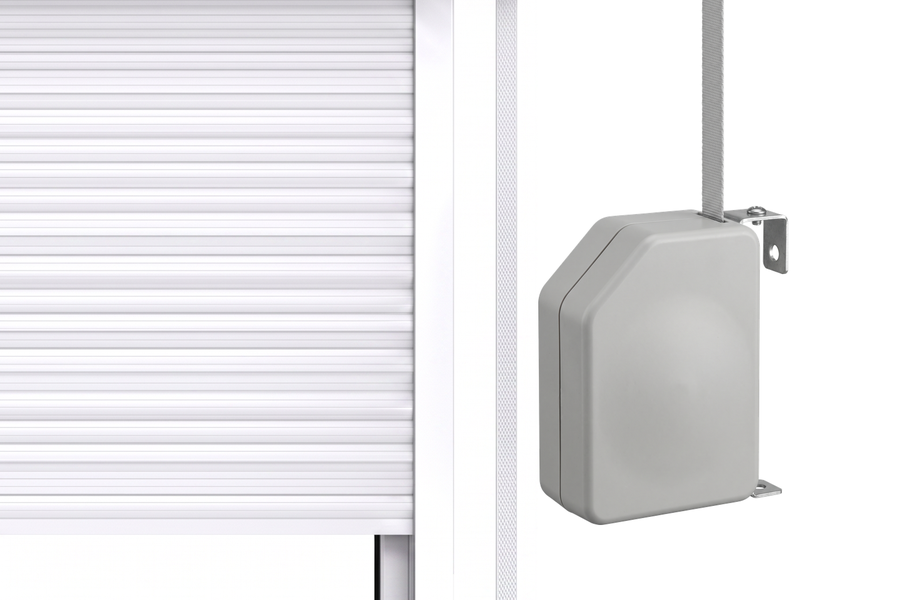
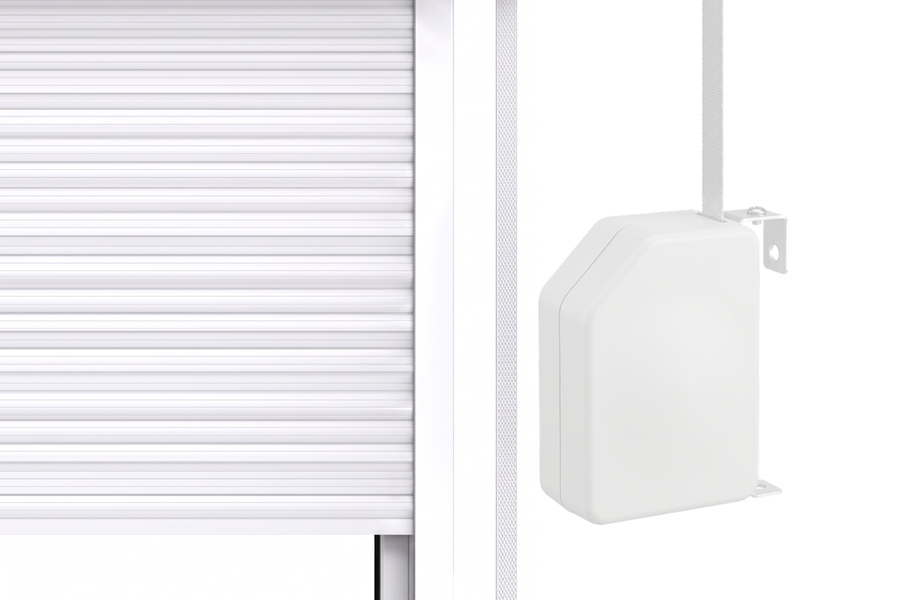
Gurtwickler-Bauteil in Weiss statt Hellgrau
Weiss ist die uebliche Ausfuehrung und passt zum weissen Rollladen daneben. Umgesetzt
per Tonwertkorrektur am freigestellten Bauteil (Richtung Weiss gezogen), NICHT durch
Neugenerierung — die Form bleibt dadurch exakt dieselbe.

Gehaeuse und Gurtband unterschiedlich stark aufgehellt (Median 232 bzw. 211): bei
gleicher Aufhellung verschwindet das Gurtband sonst im weissen Gehaeuse. Plastizitaet
bleibt erhalten, in Kachelgroesse ist das Bauteil weiterhin klar abgesetzt.

Bildversion ?v=8.

Changed region(s): [[0.5911, 0.0, 0.9022, 0.9]]

diff --git a/konfigurator.html b/konfigurator.html
@@ -3488,7 +3488,7 @@ function panelHTML(){
     // Gespiegelt wird nur beim Gurtwickler — dort wandert der Wickler sichtbar auf die andere
     // Seite. Beim Motor gaebe es nichts zu spiegeln ausser dem Fenster selbst; das saehe nach
     // Versehen aus. Die beiden Motor-Kacheln zeigen daher bewusst dasselbe Bild.
-    const rimg=(art,li)=>`<img src="img/rolladen-${art}-r.webp?v=7" ${(li&&art==='gurt')?'class="mir" ':''}alt="${art==='gurt'?'Rollladen mit Gurtwickler '+(li?'links':'rechts'):'Rollladen mit Motorantrieb'}" loading="lazy" decoding="async">`;
+    const rimg=(art,li)=>`<img src="img/rolladen-${art}-r.webp?v=8" ${(li&&art==='gurt')?'class="mir" ':''}alt="${art==='gurt'?'Rollladen mit Gurtwickler '+(li?'links':'rechts'):'Rollladen mit Motorantrieb'}" loading="lazy" decoding="async">`;
     return `<div class="card"><div class="grp-title">Rollladen</div><div class="opts roll5">`
       +rc('kein',null,ban,'Kein Rollladen','ohne')
       +rc('gurt','links',rimg('gurt',1),'Gurtwickler links','Gurt links')
